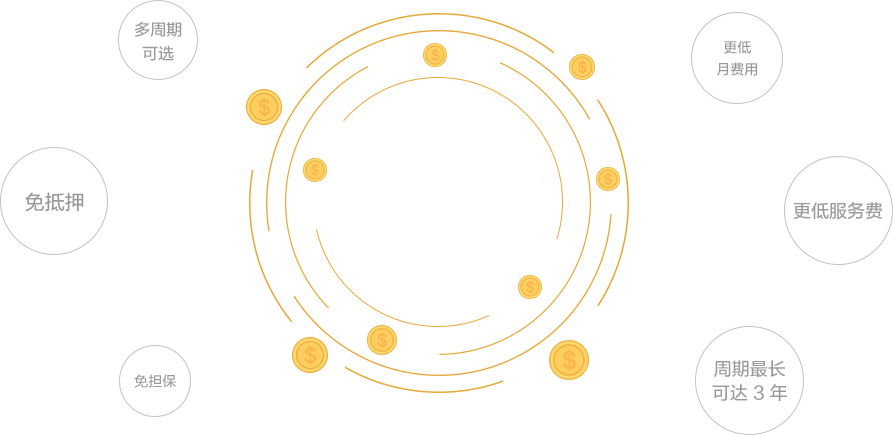
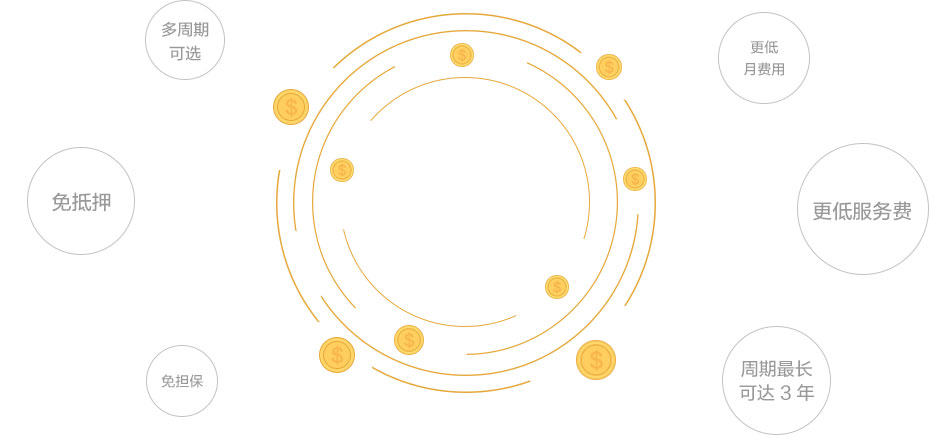
更新

diff --git a/anjia/staging.html b/anjia/staging.html
@@ -77,7 +77,7 @@
     	<div class="ui-wrap">
 			<div class="common-title1">
 				其实不用算
-				<p>￥手续费低至58.3元</p>
+				<p>￥手续费每月低至58.3元</p>
 			</div>
             <div class="improvement-cal-box clearfix">
 				<!--计算器输入框-->
@@ -100,27 +100,27 @@
                                     </li>
                                     <li id="fq_1">
                                         <a href="javascript:void(0)">6期</a>
-                                        <div class="rate-period"><i class="common-ico ico-white-trig"></i>费率1%</div>
+                                        <div class="rate-period"><i class="common-ico ico-white-trig"></i>服务费率1%</div>
                                     </li>
                                     <li id="fq_2">
                                         <a href="javascript:void(0)">9期</a>
-                                        <div class="rate-period"><i class="common-ico ico-white-trig"></i>费率4%</div>
+                                        <div class="rate-period"><i class="common-ico ico-white-trig"></i>服务费率4%</div>
                                     </li>
                                     <li id="fq_3">
                                         <a href="javascript:void(0)">12期</a>
-                                        <div class="rate-period"><i class="common-ico ico-white-trig"></i>费率7%</div>
+                                        <div class="rate-period"><i class="common-ico ico-white-trig"></i>服务费率7%</div>
                                     </li>
                                     <li id="fq_4">
                                         <a href="javascript:void(0)">18期</a>
-                                        <div class="rate-period"><i class="common-ico ico-white-trig"></i>费率10%</div>
+                                        <div class="rate-period"><i class="common-ico ico-white-trig"></i>服务费率10%</div>
                                     </li>
                                     <li id="fq_5">
                                         <a href="javascript:void(0)">24期</a>
-                                        <div class="rate-period"><i class="common-ico ico-white-trig"></i>费率13%</div>
+                                        <div class="rate-period"><i class="common-ico ico-white-trig"></i>服务费率13%</div>
                                     </li>
                                     <li id="fq_6">
                                         <a href="javascript:void(0)">36期</a>
-                                        <div class="rate-period"><i class="common-ico ico-white-trig"></i>费率16%</div>
+                                        <div class="rate-period"><i class="common-ico ico-white-trig"></i>服务费率16%</div>
                                     </li>
                                 </ul>
                             </div>

diff --git a/anjia/mystaging.html b/anjia/mystaging.html
@@ -837,7 +837,7 @@
                             </li>
                             <li>
                             	<h1 class="upload-inf-title"><em>*</em>3.现住址证明<span>（任选其一）</span></h1>
-                            	<p style="margin-bottom:20px;">
+                            	<p class="upload-inf-tip">
 				（1）房产登记证明/房产使用权证明/（房屋抵押合同+还贷流水）/（购房合同+购房发票）<br/ >
 				（2）水/电/气/有线电视/固定电话的缴费详单（近6 个月）。<br/ >
 				（3）居委会/街道办/派出所开具的居住证明。<br/ >
@@ -851,7 +851,11 @@
                                 </div>
                             </li>
                             <li>
-                            	<h1 class="upload-inf-title"><em>*</em>4.工作证明<span>（人事部门开具的在职证明+社保卡）</span></h1>
+                            	<h1 class="upload-inf-title"><em>*</em>4.工作证明<span>工作证明（任选其一）</span></h1>
+                                <p class="upload-inf-tip">
+                                （1）公司人事部门开具的在职证明+社保卡<br/ >
+                                （2）营业执照+办公场所照片
+                            	</p>
                                 <div class="upload-inf-box clearfix">
                                 	<label>
                                     	<a id="img_3" href="javascript:void(0)" onclick="" class="common-btn btn-green upload-btn"><i class="common-ico ico-upload"></i>上传</a>

diff --git a/res/css/index.css b/res/css/index.css
@@ -335,6 +335,11 @@
 .upload-inf-title{
 	font-size:16px;
 	color:#111;
+	margin-bottom:15px;
+}
+.upload-inf-tip{
+	font-size:14px;
+	color:#555;
 	margin-bottom:20px;
 }
 .upload-inf-title em{
@@ -695,12 +700,12 @@
 	height:70px;
 }
 .selection-period-box .selection-period-ul{
-	margin-left:45px;
+	margin-left:25px;
 }
 .selection-period-box .selection-period-ul li{
 	position:relative;
 	float:left;
-	margin-right:15px;
+	margin-right:20px;
 	display:inline;
 }
 .selection-period-box .selection-period-ul li .rate-period{
@@ -711,9 +716,9 @@
 	margin-left:-32px;
 	font-size:14px;
 	color:#666666;
+	padding:2px;
 	text-align:center;
-	height:26px;
-	line-height:26px;
+	line-height:20px;
 	border:1px solid #e1e1e1;
 	width:64px;
 }
@@ -744,6 +749,7 @@
 .staging-detail-box{
 	background:#fafafa;
 	padding:35px;
+	margin-top:10px;
 }
 .staging-detail-item{
 	color:#333333;

diff --git a/res/css/common.css b/res/css/common.css
@@ -546,6 +546,8 @@ html{
 	margin:0px 5px;
 }
 .ui-header{
+	position:relative;
+	z-index:5;
 	height:100px; /*haitao 20150920 0707 ----  130px*/
 	background:#fff;
 	border-bottom:1px solid #e9e9e9;
@@ -909,17 +911,17 @@ html{
 }
 .loan-img{
 	position:relative;
-	width:895px;
+	width:930px;
 	height:435px;
 	margin:0 auto;
-	background:url(../images/decoration-loan-img.jpg) left top no-repeat;
+	background:url(../images/decoration-loan-img.jpg?122) left top no-repeat;
 }
 .loan-img .loan-btn{
 	position:absolute;
 	width:214px;
 	height:212px;
-	left:332px;
-	top:93px;
+	left:359px;
+	top:94px;
 	background:url(../images/loan-circle.gif) left top no-repeat;
 }
 .loan-img .loan-btn:hover{

diff --git a/res/css/carouFredSel.css b/res/css/carouFredSel.css
@@ -85,6 +85,10 @@
 .index-slide .prev:hover,.index-slide .next:hover{
 	cursor:pointer;
 }
+.ui-slider{
+	position:relative;
+	z-index:2;
+}
 .ui-slide .pager {
 	position:absolute;
 	right:0px;
